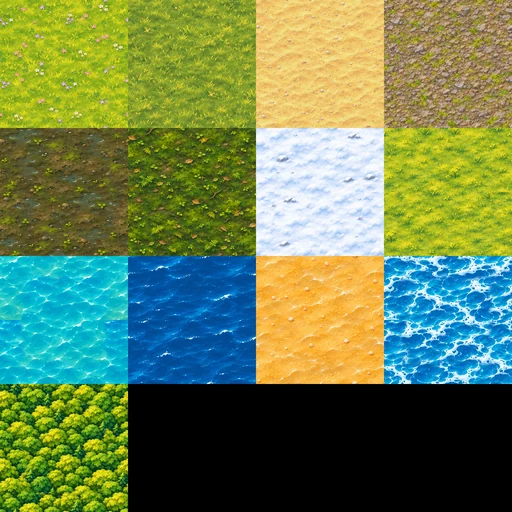
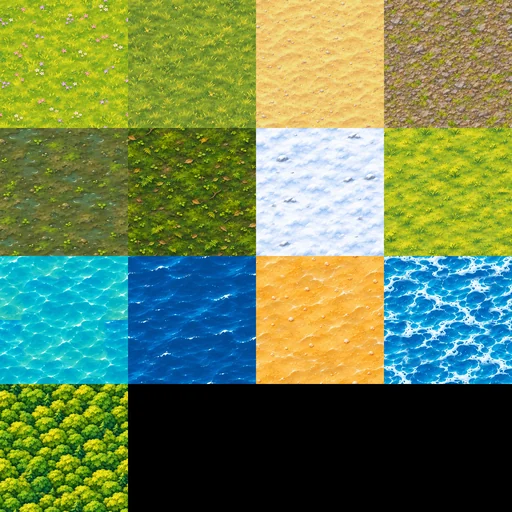
MR2 painted ground: with tilt and land features; marsh ground nearer mock-up B
After merging revamp (mr2-land, mr2-live, mr2-tilt) the painted ground runs with
the tilt, land feature grounds (forest floor, marsh, rock) and the live clouds in
the real game. Marsh texture moved from brown mud to mock-up B's dark wet green.
Pictures: side-by-sides and full shots with tilt + land features, near and middle.

Changed region(s): [[0.0, 0.25, 0.25, 0.5]]

diff --git a/web/src/game/maproom/painted/groundKinds.ts b/web/src/game/maproom/painted/groundKinds.ts
@@ -59,9 +59,9 @@ export const Ground = {
 export type Ground = (typeof Ground)[keyof typeof Ground];
 
 /**
- * Map Room 2's land feature codes (`lf`, branch feat/mr2-land, `landFeature.ts`): 1 forest,
- * 2 rocks, 3 marsh; the rest (resource nodes) stand on open ground. Absent until that branch
- * merges, so today every land cell takes its ground from its height alone.
+ * Map Room 2's land feature codes (`lf`, server `game-rules/combat/landFeatures.ts`): 1 forest,
+ * 2 rocks, 3 marsh; the rest (resource nodes) stand on open ground. Sent only with the server's
+ * `MR2_LAND_FEATURES` switch on; without it every land cell takes its ground from its height.
  */
 const LAND_FEATURE_GROUND: Record<number, Ground> = {
   1: Ground.FOREST_FLOOR,

diff --git a/web/tools/mr2-paint/build.py b/web/tools/mr2-paint/build.py
@@ -48,7 +48,7 @@ TEXTURE_ORDER: list[tuple[str, str, int | None, tuple[int, int, int, int] | None
     ("lush", "ground-a", 1, (1000, 780, 1150, 860)),
     ("sand", "ground-a", 2, (200, 760, 260, 920)),
     ("rock", "ground-a", 3, None),
-    ("marsh", "ground-b", 0, None),
+    ("marsh", "ground-b", 0, (1300, 800, 1700, 1050)),
     ("forest-floor", "ground-b", 1, None),
     ("snow", "ground-b", 2, None),
     ("meadow-plain", "ground-b", 3, (600, 660, 800, 760)),
@@ -61,8 +61,8 @@ TEXTURE_ORDER: list[tuple[str, str, int | None, tuple[int, int, int, int] | None
 ATLAS_COLUMNS = 4
 # How far each texture moves to its mock-up B colour (default 0.5). The meadows went further after
 # the first in-game look: they came out greener and darker than mock-up B (hue 82 against 66);
-# the sand came out darker.
-MATCH_STRENGTH = {"meadow": 0.9, "lush": 0.8, "meadow-plain": 0.9, "sand": 0.8}
+# the sand came out darker; the marsh came out brown mud where mock-up B has dark wet green.
+MATCH_STRENGTH = {"meadow": 0.9, "lush": 0.8, "meadow-plain": 0.9, "sand": 0.8, "marsh": 0.7}
 
 
 def take() -> None:
